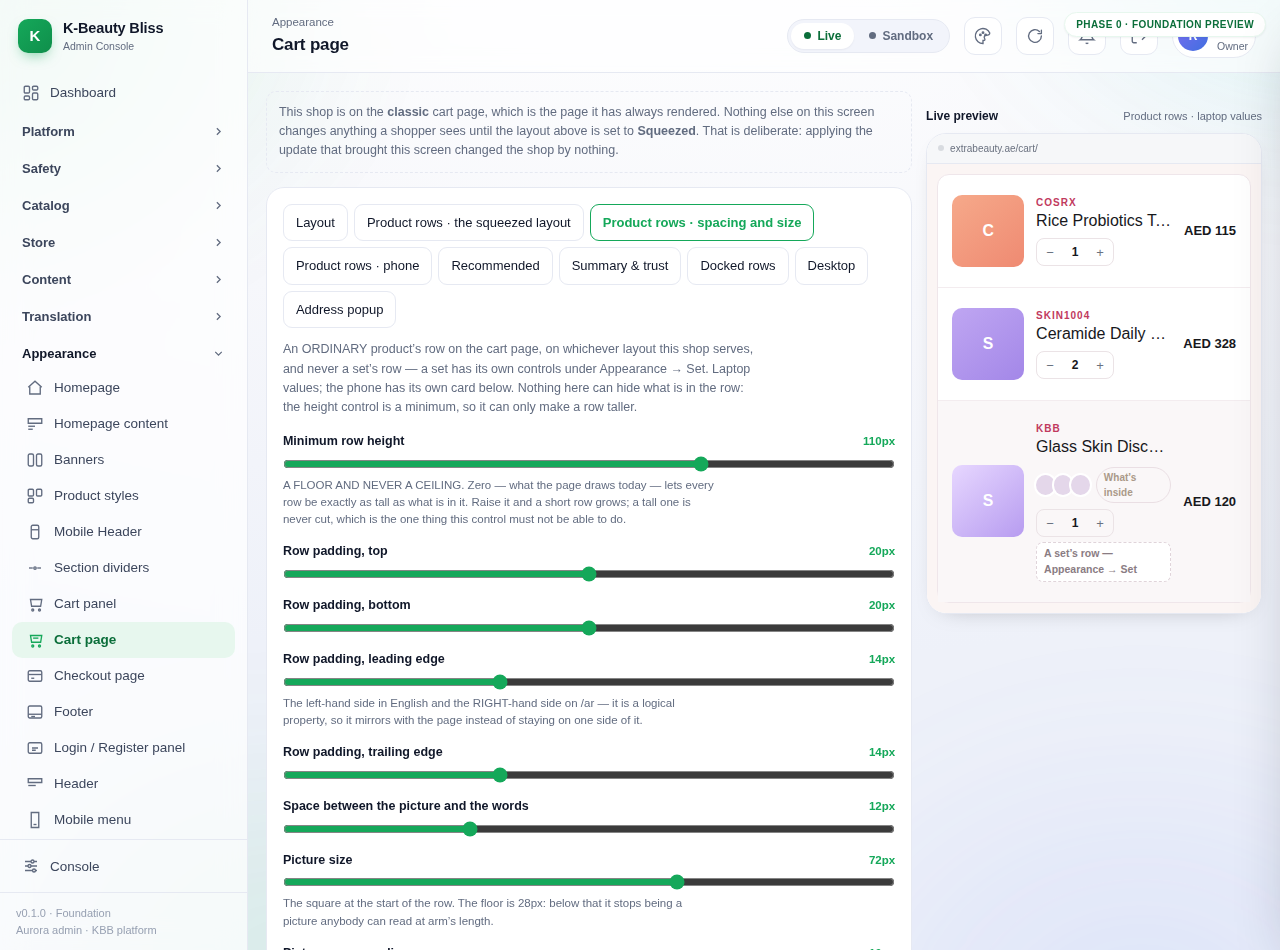
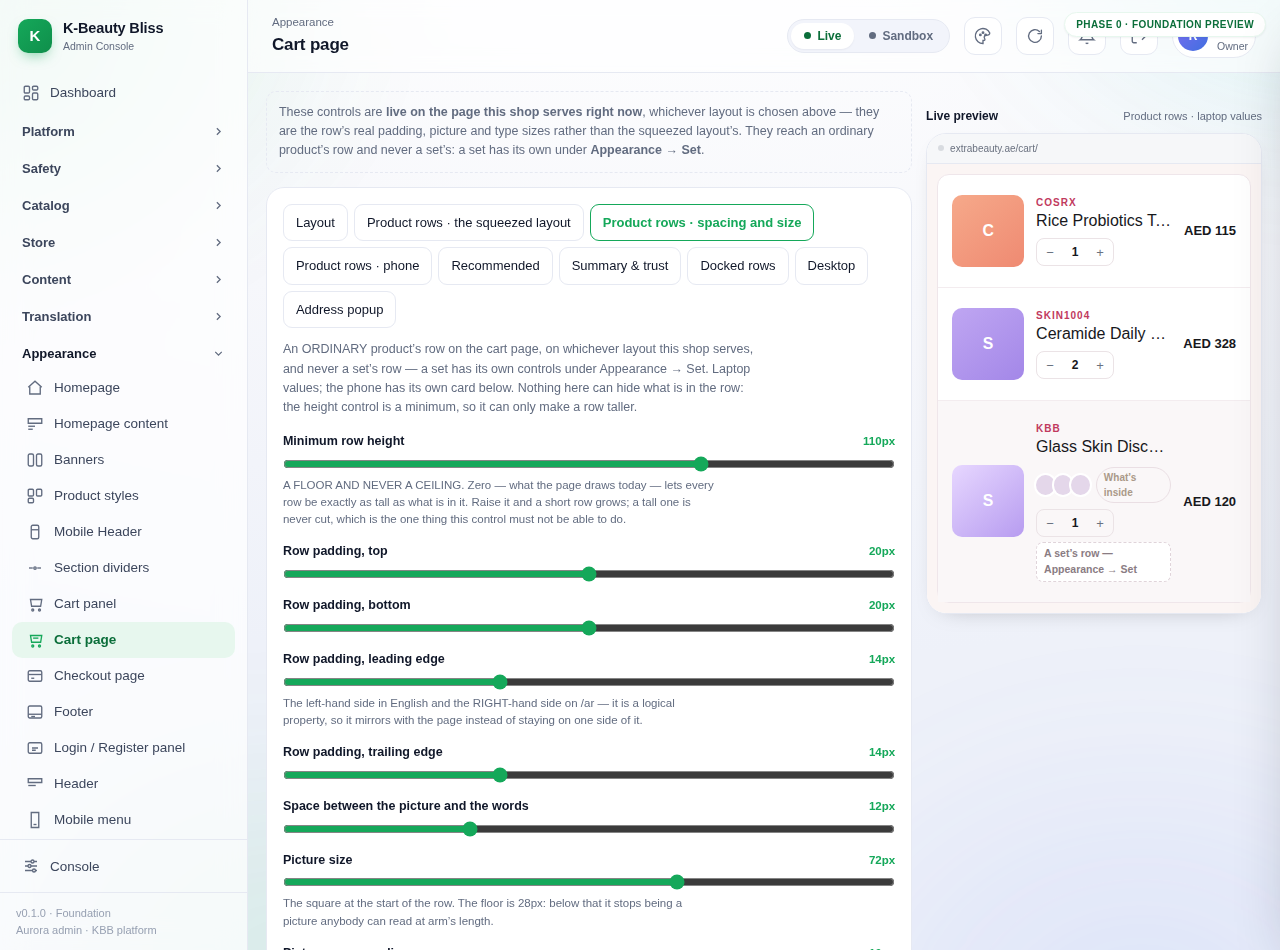
The cart page screen stops telling the owner his live sliders do nothing
Appearance -> Cart page carried one note over every tab: *"This shop is on the
classic cart page ... Nothing else on this screen changes anything a shopper
sees until the layout above is set to Squeezed."*

That was true of every tab on the screen and is now false of two of them. The
row controls added in the commit before this are ordinary declarations at
`.kbb-cartpage .items .ci:not(.ci-set)`, which BOTH layouts match, so they are
live on this shop today. Leaving the note up over them would have had the
console itself tell the owner that the sliders he was dragging did nothing --
which is the complaint that brought this lane here.

So the note is suppressed on "Product rows . spacing and size" and "Product
rows . phone", and those two carry one of their own that says the opposite and
names the boundary: live whichever layout is chosen, an ordinary product's row
and never a set's, and where a set's controls are instead.

Pictured at 390 and 1280: docs/CR-cart-shots/cartpage-folded-*.
scrollWidth 390 and 1280, unchanged.

Guards: CartPageScreen, CartPagePreview, CartPageLayout,
AdminConsoleControlsAreLive -- 27 passed, 0 failed.

Claude-Session: https://claude.ai/code/session_01CmowJLWcbxiie7sccsLiWq

Changed region(s): [[0.2188, 0.0916, 0.6875, 0.1832]]

diff --git a/resources/views/admin/partials/cart-page-screen.blade.php b/resources/views/admin/partials/cart-page-screen.blade.php
@@ -752,12 +752,27 @@
 
     var current = tabs.filter(function (t) { return t.key === open; })[0] || tabs[0];
 
-    var warn = String(values.layout) === 'classic'
+    /* ▲ AND NOT ON THE TWO ROW-SIZE TABS. (Lane CR)
+       This note was true of every tab on this screen and is now false of two of
+       them: "Product rows . spacing and size" and "Product rows . phone" are
+       ordinary declarations at `.kbb-cartpage .items .ci:not(.ci-set)`, which
+       BOTH layouts match, so they are live on this shop today. Leaving the note
+       up over them would tell the owner that the sliders he is dragging do
+       nothing -- which is the complaint that brought this lane here, said by
+       the console itself. */
+    var liveOnClassic = open === 'rowsize' || open === 'rowphone';
+
+    var warn = String(values.layout) === 'classic' && !liveOnClassic
       ? '<div class="cps-note">This shop is on the <b>classic</b> cart page, which is the page it '
         + 'has always rendered. Nothing else on this screen changes anything a shopper sees until '
         + 'the layout above is set to <b>Squeezed</b>. That is deliberate: applying the update that '
         + 'brought this screen changed the shop by nothing.</div>'
-      : '';
+      : (liveOnClassic
+        ? '<div class="cps-note">These controls are <b>live on the page this shop serves right now</b>, '
+          + 'whichever layout is chosen above \u2014 they are the row\u2019s real padding, picture and type '
+          + 'sizes rather than the squeezed layout\u2019s. They reach an ordinary product\u2019s row and '
+          + 'never a set\u2019s: a set has its own under <b>Appearance \u2192 Set</b>.</div>'
+        : '');
 
     host.innerHTML = '<div class="cps-wrap' + (open === 'desktop' ? ' cps-stack' : '') + '"><div class="cps-col">'
       + (banner ? '<div class="cps-note" style="border-style:solid;border-color:#b4443c;color:#b4443c">'
